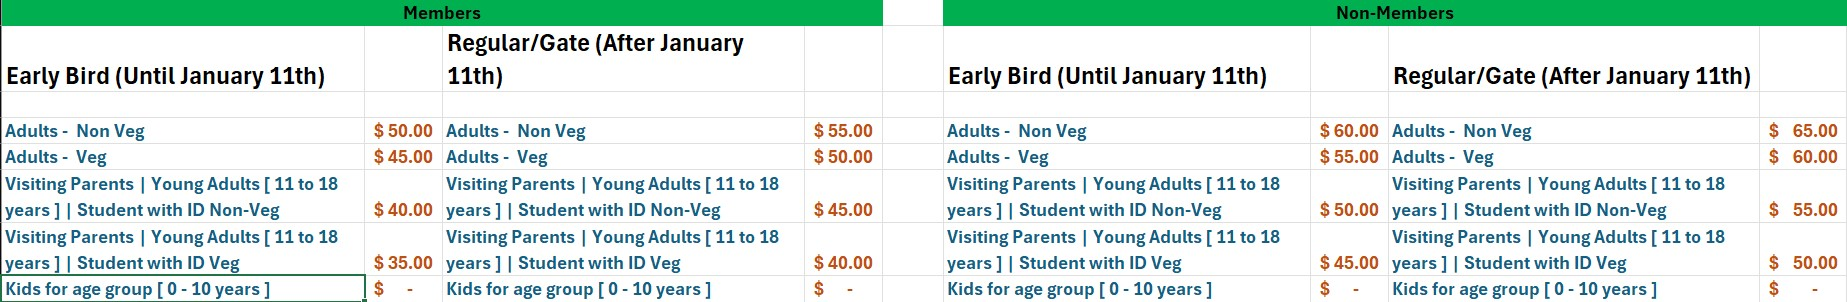
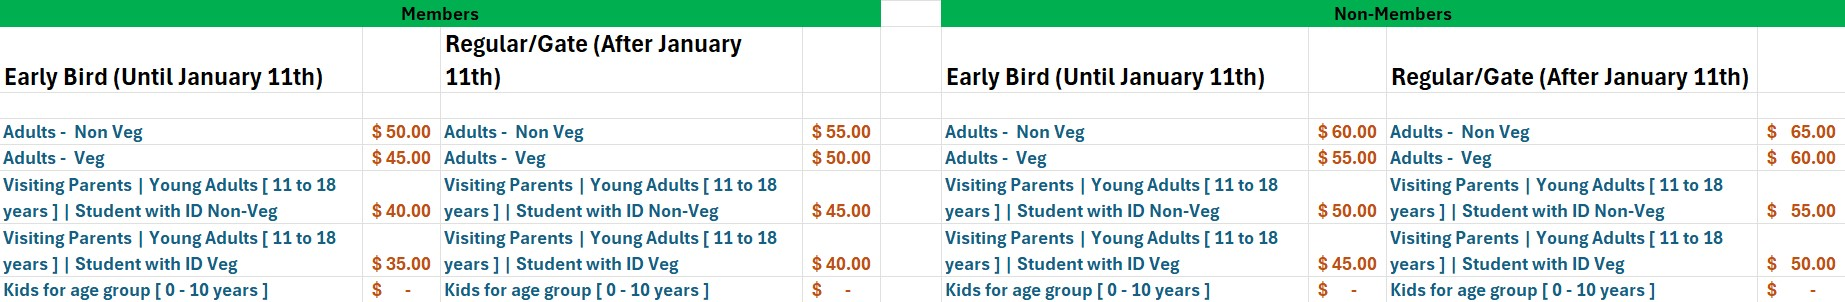
changed the ticket rate chart, changed the ticket booking process based on membership and added priority pass.

diff --git a/src/app/helper/tickets/sptickets2026/sptickets2026.component.html b/src/app/helper/tickets/sptickets2026/sptickets2026.component.html
@@ -19,7 +19,8 @@
 </div>
 
 <div id="earlyBirdWithoutcul" class="table-responsive mb-5 tickets">
-    <p  class="red">
+    <p  class="red" style="font-weight: bold;">
+        Please note - Membership rates are valid exclusively for members and their family members<br/>
         &ast; Tickets are required for food, local cultural performances and program with external artist for everyone, including kids (0 to 10 years).
     </p> 
 
